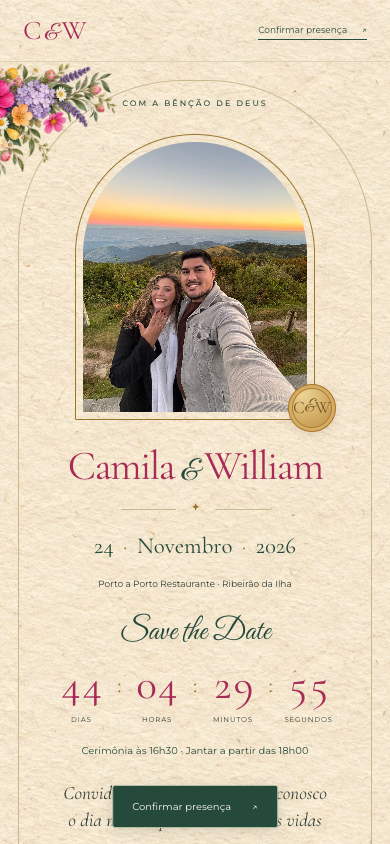
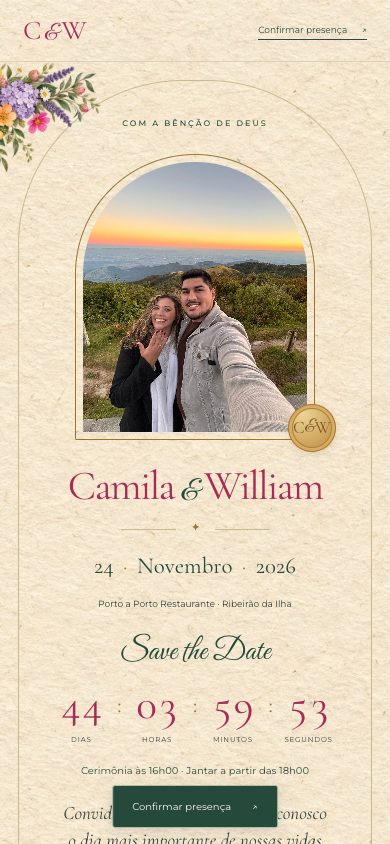
Ajustes dos noivos: 16h, legendas e sem travessoes
- Cerimonia as 16h00 no HTML, agenda (.ics) e contagem regressiva.
- Fotos da historia somente com a moldura, sem flores nos cantos.
- Depois das fotos fica apenas Mateus 19:6, sem o bloco de data.
- Colossenses da lugar a frase do convite ao convidado.
- Legendas novas da recepcao e da cerimonia no local.
- Entradas sem "Servidas a mesa para compartilhar" e traje em tons coloridos.
- Nenhum travessao no convite, na agenda ou no script.
- No celular, "Com a bencao de Deus" fica 20 px abaixo do topo e livre das flores.

Changed region(s): [[0.0, 0.0616, 0.8615, 1.0], [0.2462, 0.6469, 0.3077, 0.7085]]

diff --git a/floral/index.html b/floral/index.html
@@ -3,8 +3,8 @@
 <head>
 <meta charset="UTF-8">
 <meta name="viewport" content="width=device-width, initial-scale=1.0, viewport-fit=cover">
-<title>Camila &amp; William — Convite Floral</title>
-<meta name="description" content="Camila Cristina Goncalves e William Prussak Macarini convidam você para a celebração do casamento. Porto a Porto Restaurante — Ribeirão da Ilha.">
+<title>Camila &amp; William · Convite Floral</title>
+<meta name="description" content="Camila Cristina Goncalves e William Prussak Macarini convidam você para a celebração do casamento. Porto a Porto Restaurante, Ribeirão da Ilha.">
 <meta name="theme-color" content="#a82756">
 
 <link rel="stylesheet" href="assets/fonts.css">
@@ -96,7 +96,7 @@
         <div class="cd-sep" aria-hidden="true">:</div>
         <div class="cd-unit"><span class="cd-num" id="cdSecs">--</span><span class="cd-label">Segundos</span></div>
       </div>
-        <p class="ceremony-hours">Cerimônia às 16h30 · Jantar a partir das 18h00</p>
+        <p class="ceremony-hours">Cerimônia às 16h00 · Jantar a partir das 18h00</p>
       </section>
 
       <p class="hero-invite-text">
@@ -160,13 +160,8 @@
         </figure>
       </div>
 
-      <!-- Data e versículo -->
+      <!-- Versículo -->
       <div class="duo-data reveal">
-        <span class="duo-eyebrow">Save the Date</span>
-        <p class="duo-dia">24 de Novembro de 2026</p>
-        <p class="duo-hora">Cerimônia às 16h30</p>
-        <p class="duo-local">Porto a Porto Restaurante &middot; Ribeirão da Ilha</p>
-
         <blockquote class="duo-versiculo">
           Assim não são mais dois, mas uma só carne.<br>
           Portanto, o que Deus uniu, ninguém separe.
@@ -185,30 +180,29 @@
           <span class="line"></span>
         </div>
 
-        <blockquote class="casal-versiculo">
-          Acima de tudo, porém, revistam-se do amor,<br>
-          que é o elo perfeito.
-          <cite>Colossenses 3:14</cite>
-        </blockquote>
+        <p class="casal-convite">
+          Você é nosso convidado para celebrar esse dia conosco
+          e continuar essa caminhada ao nosso lado.
+        </p>
       </div>
     </div>
   </section>
 
 
-  <!-- ============ O LOCAL — FOTOS ============ -->
+  <!-- ============ O LOCAL / FOTOS ============ -->
   <section class="section section--venue" id="local">
     <span class="flor-sec flor-sec--br" aria-hidden="true"></span>
     <div class="wrap">
       <p class="sec-eyebrow reveal">O Cenário</p>
       <h2 class="sec-title reveal">Porto a Porto Restaurante</h2>
-      <p class="sec-sub reveal">Ribeirão da Ilha &middot; Florianópolis — SC</p>
+      <p class="sec-sub reveal">Ribeirão da Ilha &middot; Florianópolis, SC</p>
 
       <div class="venue-grid">
         <figure class="venue-figure venue-figure--wide">
           <img src="../imagens/salao.jpg" alt="Salão do restaurante decorado com flores coloridas e mesas postas para o jantar">
           <figcaption>
             <span class="cap-title">A Recepção</span>
-            <span class="cap-text">Um jantar à luz de velas, entre madeira, tijolo e jardim</span>
+            <span class="cap-text">Um jantar intimista para as pessoas que nos apoiaram e estiveram conosco nesses últimos 6 anos.</span>
           </figcaption>
         </figure>
 
@@ -216,14 +210,14 @@
           <img src="../imagens/cerimonia.jpg" alt="Cerimônia montada sobre a água com corredor e arranjos florais">
           <figcaption>
             <span class="cap-title">A Cerimônia</span>
-            <span class="cap-text">Onde o mar encontra o "sim" — 16h30</span>
+            <span class="cap-text">Onde o mar encontra o nosso "sim" às 16h00</span>
           </figcaption>
         </figure>
       </div>
 
       <p class="venue-note reveal">
         Um cenário à beira-mar, com vista para a Baía Sul e o pôr do sol da Ilha
-        de Santa Catarina — o lugar que escolhemos para reunir quem amamos.
+        de Santa Catarina, o lugar que escolhemos para reunir quem amamos.
       </p>
     </div>
   </section>
@@ -246,7 +240,7 @@
           </div>
         </li>
         <li class="tl-item reveal">
-          <span class="tl-time">16h30</span>
+          <span class="tl-time">16h00</span>
           <span class="tl-dot" aria-hidden="true"></span>
           <div class="tl-body">
             <h3>Cerimônia</h3>
@@ -302,7 +296,6 @@
           </span>
           <div class="menu-body">
             <h3>Entradas</h3>
-            <p>Servidas à mesa para compartilhar:</p>
             <ul class="menu-dishes">
               <li>Pastel de carne, queijo e camarão</li>
               <li>Parmesão e provolone</li>
@@ -372,7 +365,7 @@
           </div>
           <h3>Traje</h3>
           <p class="d-strong">Esporte Chique / Formal</p>
-          <p>Prefira tons suaves e tecidos leves. Evite branco, off-white e nude.</p>
+          <p>Prefira tons coloridos e não use cores: branco e bege</p>
         </article>
 
         <article class="d-card reveal">
@@ -424,7 +417,7 @@
         sua presença até <strong>24 de Outubro de 2026</strong>.
       </p>
       <p class="sec-sub reveal rsvp-aviso">
-        A cerimônia começa às <strong>16h30</strong> — recomendamos chegar com
+        A cerimônia começa às <strong>16h00</strong>. Recomendamos chegar com
         antecedência para aproveitar cada momento.
       </p>
 
@@ -488,7 +481,7 @@
       <p class="footer-blessing">Com amor e a bênção de Deus</p>
       <div class="footer-monogram" aria-hidden="true">C<span>&amp;</span>W</div>
       <p class="footer-names">Camila Cristina Goncalves &amp; William Prussak Macarini</p>
-      <p class="footer-date">24 · 11 · 2026 — Ribeirão da Ilha, Florianópolis</p>
+      <p class="footer-date">24 · 11 · 2026 · Ribeirão da Ilha, Florianópolis</p>
       <button class="btn btn--ghost btn--small" id="btnReplay" type="button">
         <svg viewBox="0 0 24 24" aria-hidden="true"><path d="M12 5V2L7 6l5 4V7a5 5 0 1 1-5 5H5a7 7 0 1 0 7-7z" fill="currentColor"/></svg>
         Ver a abertura novamente

diff --git a/floral/style.css b/floral/style.css
@@ -142,17 +142,10 @@ body.is-opening .invitation, body.is-opening .invite-nav, body.is-opening .float
 .historia-texto { font-size: 12px; line-height: 2.15; }
 .diagonal { display: grid; grid-template-columns: 1fr 1fr; align-items: start; gap: 34px; width: min(740px,90%); margin: 0 auto 55px; padding: 15px 0 42px; }
 .casal-figure { position: relative; padding: 10px 10px 29px; background: #fffdf8; box-shadow: 0 9px 24px #58442a19; border: 1px solid #ece2cf; transform: rotate(-5deg); }
-/* Floral corners are printed on the frame and inherit each photo's rotation. */
-.casal-figure::after { content: ''; position: absolute; top: -3px; left: -3px; width: 42%; aspect-ratio: 1; background: url('assets/floral-aquarela.webp') no-repeat center / contain; transform: none; pointer-events: none; z-index: 1; }
-.casal-figure:nth-child(2)::after { left: auto; right: -3px; transform: scaleX(-1); }
 .casal-figure:nth-child(2) { margin-top: 60px; transform: rotate(5deg); }
 .casal-figure img { width: 100%; aspect-ratio: .8; object-fit: cover; object-position: center 70%; }
 .duo-data { max-width: 600px; margin: 15px auto 0; }
-.duo-eyebrow { text-transform: uppercase; font-size: 8px; letter-spacing: .22em; color: var(--rose); }
-.duo-dia { font-family: var(--serif); font-size: 34px; color: var(--rose); margin-top: 6px; }
-.duo-hora, .duo-local { font-size: 11px; }
-.duo-versiculo, .casal-versiculo { font-family: var(--serif); font-size: 24px; line-height: 1.45; font-style: italic; }
-.duo-versiculo { margin-top: 32px; }
+.duo-versiculo, .casal-convite { font-family: var(--serif); font-size: 24px; line-height: 1.45; font-style: italic; }
 cite { display: block; font-family: var(--sans); text-transform: uppercase; font-style: normal; font-size: 8px; letter-spacing: .16em; margin-top: 17px; }
 .casal-texto { margin-top: 52px; padding-top: 44px; border-top: 1px solid #e0d7c0; }
 .casal-frase { font-family: var(--script); font-size: 36px; color: var(--rose); line-height: 1.3; }
@@ -250,10 +243,11 @@ input[aria-invalid="true"], select[aria-invalid="true"] { border: 1px solid var(
   .hero { min-height: 0; padding: 34px 24px 90px; }
   .hero::before { inset: 18px 18px 20px; border-radius: 165px 165px 0 0; }
   .flor { width: 245px; }
-  .flor--tl { top: -4px; left: -128px; }
+  .flor--tl { top: -4px; left: -144px; }
   .flor--br { bottom: -5px; right: -108px; }
   .hero-content { width: 100%; }
-  .hero-eyebrow { margin-bottom: 23px; font-size: 8px; }
+  /* A frase fica abaixo das flores do canto, sem sobreposição, em telas de 320 a 430 px. */
+  .hero-eyebrow { margin-top: 20px; margin-bottom: 23px; font-size: 8px; }
   .hero-portrait { width: min(240px,74vw); height: auto; aspect-ratio: .84; margin-bottom: 24px; }
   .hero-names { font-size: clamp(34px,10.6vw,65px); gap: .16em; letter-spacing: -.04em; }
   .hero-amp { font-size: .72em; }
@@ -281,9 +275,7 @@ input[aria-invalid="true"], select[aria-invalid="true"] { border: 1px solid var(
   .casal-figure { padding: 5px 5px 14px; }
   .casal-figure:nth-child(2) { margin-top: 42px; }
   .casal-figure img { aspect-ratio: .63; }
-  .duo-dia { font-size: 28px; }
-  .duo-hora, .duo-local { font-size: 10px; }
-  .duo-versiculo, .casal-versiculo { font-size: 21px; }
+  .duo-versiculo, .casal-convite { font-size: 21px; }
   .casal-frase { font-size: 31px; }
   .casal-texto { margin-top: 38px; padding-top: 30px; }
   .venue-grid { grid-template-columns: 1fr; gap: 24px; margin-top: 28px; }

diff --git a/floral/script.js b/floral/script.js
@@ -9,7 +9,7 @@
     casal: 'Camila & William',
     casalCompleto: 'Camila Cristina Goncalves e William Prussak Macarini',
     // Data e hora da cerimônia (horário local de Brasília, UTC-3)
-    dataISO: '2026-11-24T16:30:00-03:00',
+    dataISO: '2026-11-24T16:00:00-03:00',
     local: 'Porto a Porto Restaurante',
     endereco: 'Ribeirão da Ilha, Florianópolis - SC',
     // Opções de prato principal para escolha prévia no RSVP
@@ -185,7 +185,7 @@
       select.id = 'prato-' + i;
       select.name = 'prato-' + i;
       select.className = 'prato-select';
-      select.setAttribute('aria-label', 'Prato principal — ' + label.textContent);
+      select.setAttribute('aria-label', 'Prato principal: ' + label.textContent);
       select.required = willAttend();
       var placeholder = new Option('Selecione o prato', '');
       select.add(placeholder);

diff --git a/floral/README.md b/floral/README.md
@@ -22,8 +22,8 @@ Fontes, fotos e ilustrações são locais. Os links de mapa e WhatsApp precisam 
 ## Dados do casamento
 
 - **Camila Cristina Goncalves e William Prussak Macarini**.
-- **24 de novembro de 2026**, cerimônia às **16h30** e jantar a partir das **18h00**.
-- **Porto a Porto Restaurante**, Ribeirão da Ilha, Florianópolis — SC.
+- **24 de novembro de 2026**, cerimônia às **16h00** e jantar a partir das **18h00**.
+- **Porto a Porto Restaurante**, Ribeirão da Ilha, Florianópolis, SC.
 - Confirmação até **24 de outubro de 2026**.
 - Mesmos textos da história, versículos, fotos reais, programação, traje, presentes, estacionamento, agenda e contatos do convite principal.
 
@@ -33,7 +33,11 @@ A data foi conferida no HTML, configuração e agenda do principal. Um trecho an
 
 - Textura de papel nas superfícies claras, incluindo abertura, carta, molduras e formulário.
 - Foto maior na capa, nomes juntos e uma única contagem regressiva sob **Save the Date**.
-- As duas fotos da história mantêm a composição diagonal; os arranjos acompanham os cantos das molduras.
+- As duas fotos da história mantêm a composição diagonal, somente com as molduras, sem flores.
+- Na capa do celular, a frase **Com a bênção de Deus** começa 20 px abaixo do topo, livre das flores do canto.
+- O versículo de Mateus 19:6 aparece sozinho depois das fotos, sem o bloco de data.
+- O versículo de Colossenses deu lugar ao convite: **Você é nosso convidado para celebrar esse dia conosco e continuar essa caminhada ao nosso lado.**
+- Nenhum travessão no convite: os separadores são o ponto médio, a vírgula ou o ponto.
 - A aba do envelope tem uma única superfície. O selo sai, a aba abre e uma única carta sobe atrás dos bolsos. O convidado toca na carta para entrar.
 - Cliques repetidos não reiniciam a abertura. Pular e repetir cancelam os temporizadores anteriores.
 - Botão para pular, navegação pelo teclado e preferência por movimento reduzido. Sem música.
